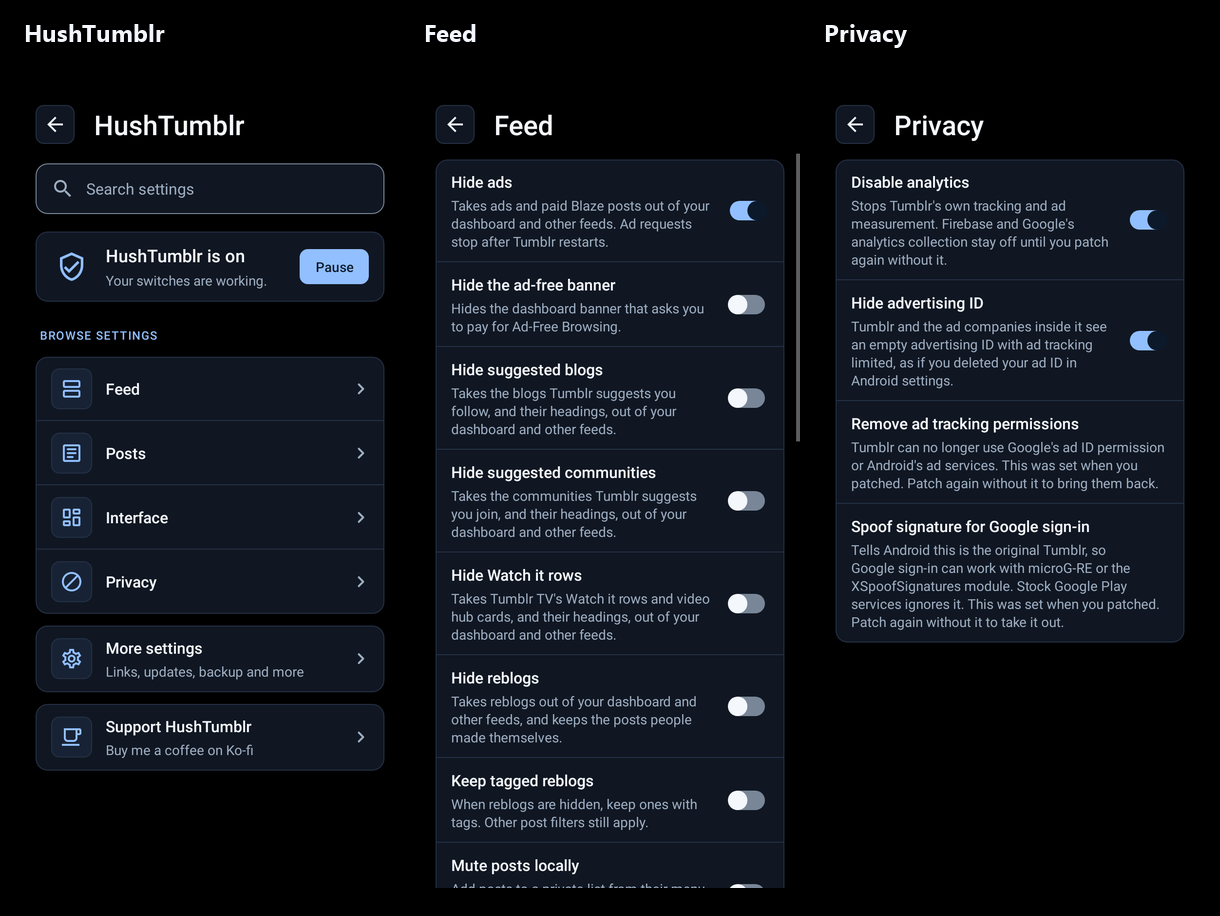
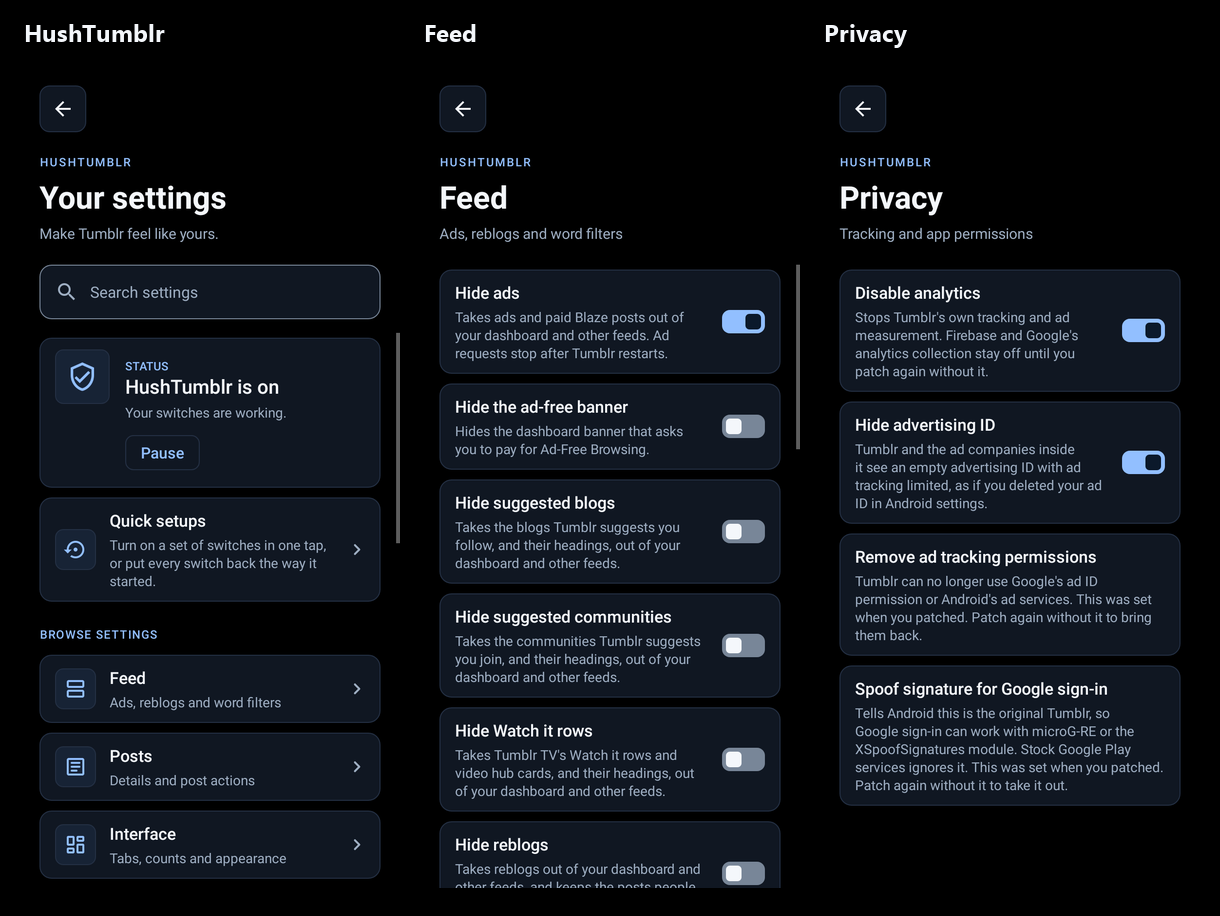
fix(settings): preserve arrow direction and switch geometry
Earlier tests checked configured rotation and intrinsic drawable sizes. Those checks missed framework drawing adjustments. New native rendering regressions verify actual arrow pixels and switch bounds on API 26, 30 and 36 in both layout directions. All 1088 tests and both Android lints pass. Refresh the settings preview and advance development source to 0.0.6.

diff --git a/extensions/tumblr/src/test/java/app/hushtumblr/extension/tumblr/settings/SettingsWidgetRenderingTest.java b/extensions/tumblr/src/test/java/app/hushtumblr/extension/tumblr/settings/SettingsWidgetRenderingTest.java
@@ -1,0 +1,129 @@
+package app.hushtumblr.extension.tumblr.settings;
+
+import static org.junit.Assert.assertEquals;
+import static org.junit.Assert.assertNotNull;
+import static org.junit.Assert.assertTrue;
+
+import android.app.Activity;
+import android.app.AlertDialog;
+import android.graphics.Bitmap;
+import android.graphics.Canvas;
+import android.graphics.Rect;
+import android.graphics.drawable.Drawable;
+import android.graphics.drawable.InsetDrawable;
+import android.preference.Preference;
+import android.preference.SwitchPreference;
+import android.view.View;
+import android.widget.LinearLayout;
+import android.widget.ListView;
+import android.widget.Switch;
+import android.widget.TextView;
+
+import app.hushtumblr.extension.shared.SettingsContextRule;
+
+import org.junit.After;
+import org.junit.Rule;
+import org.junit.Test;
+import org.junit.runner.RunWith;
+import org.robolectric.Robolectric;
+import org.robolectric.RobolectricTestRunner;
+import org.robolectric.RuntimeEnvironment;
+import org.robolectric.android.controller.ActivityController;
+import org.robolectric.annotation.Config;
+import org.robolectric.annotation.GraphicsMode;
+import org.robolectric.shadows.ShadowDialog;
+
+import java.util.EnumSet;
+
+@RunWith(RobolectricTestRunner.class)
+@Config(sdk = {26, 30, 36}, qualifiers = "en-rUS-w390dp-h844dp-xhdpi")
+@GraphicsMode(GraphicsMode.Mode.NATIVE)
+@SuppressWarnings("deprecation")
+public class SettingsWidgetRenderingTest {
+    @Rule public final SettingsContextRule context = new SettingsContextRule();
+
+    @After public void restore() {
+        PatchFamily.inBuildForTests = null;
+    }
+
+    @Test public void drawnSwitchKeepsItsTrackThumbAndInsetsInBothDirections() {
+        android.content.Context activity = RuntimeEnvironment.getApplication();
+        float density = activity.getResources().getDisplayMetrics().density;
+        int target = Math.round(48 * density);
+        int inset = Math.round(4 * density);
+        Switch toggle = new Switch(activity);
+        toggle.setId(android.R.id.switch_widget);
+        toggle.setShowText(false);
+        LinearLayout row = new LinearLayout(activity);
+        row.addView(toggle);
+        ScreenColors.DEFAULT.paintRow(row, new SwitchPreference(activity));
+
+        for (int direction : new int[]{View.LAYOUT_DIRECTION_LTR, View.LAYOUT_DIRECTION_RTL}) {
+            toggle.setLayoutDirection(direction);
+            for (boolean checked : new boolean[]{false, true}) {
+                toggle.setChecked(checked);
+                toggle.jumpDrawablesToCurrentState();
+                toggle.measure(View.MeasureSpec.makeMeasureSpec(target, View.MeasureSpec.EXACTLY),
+                        View.MeasureSpec.makeMeasureSpec(target, View.MeasureSpec.EXACTLY));
+                toggle.layout(0, 0, target, target);
+                Bitmap image = Bitmap.createBitmap(target, target, Bitmap.Config.ARGB_8888);
+                toggle.draw(new Canvas(image));
+                Rect track = toggle.getTrackDrawable().getBounds();
+                Rect thumb = ((InsetDrawable) toggle.getThumbDrawable()).getDrawable().getBounds();
+                assertEquals("drawn track width", Math.round(44 * density), track.width());
+                assertEquals("drawn track height", Math.round(24 * density), track.height());
+                assertEquals("drawn thumb width", Math.round(16 * density), thumb.width());
+                assertEquals("drawn thumb height", Math.round(16 * density), thumb.height());
+                assertEquals("thumb top inset", inset, thumb.top - track.top);
+                assertEquals("thumb bottom inset", inset, track.bottom - thumb.bottom);
+                if (checked != (direction == View.LAYOUT_DIRECTION_RTL)) {
+                    assertEquals("thumb end inset", inset, track.right - thumb.right);
+                } else {
+                    assertEquals("thumb start inset", inset, thumb.left - track.left);
+                }
+                assertTrue(toggle.getWidth() >= target && toggle.getHeight() >= target);
+                image.recycle();
+            }
+        }
+    }
+
+    @Test public void tabMoveGlyphsDrawUpwardInBothDirections() {
+        PatchFamily.inBuildForTests = EnumSet.allOf(PatchFamily.class);
+        TextSettings.TAB_ORDER.resetToDefault();
+        try (ActivityController<Activity> controller = Robolectric.buildActivity(Activity.class).setup()) {
+            SettingsDialog settings = SettingsL10nTest.show(controller.get());
+            HushTumblrPreferenceFragment page = (HushTumblrPreferenceFragment)
+                    settings.getChildFragmentManager().findFragmentById(SettingsDialog.CONTAINER_ID);
+            page.navigation.navigate("Interface");
+            Preference preference = page.findPreference(HushTumblrPreferenceFragment.TAB_ORDER_ROW);
+            preference.getOnPreferenceClickListener().onPreferenceClick(preference);
+            AlertDialog dialog = (AlertDialog) ShadowDialog.getLatestDialog();
+            ListView list = dialog.getListView();
+            for (int direction : new int[]{View.LAYOUT_DIRECTION_LTR, View.LAYOUT_DIRECTION_RTL}) {
+                for (int position = 0; position < list.getAdapter().getCount(); position++) {
+                    TextView label = (TextView) list.getAdapter().getView(position, null, list);
+                    label.setLayoutDirection(direction);
+                    Drawable arrow = label.getCompoundDrawablesRelative()[2];
+                    assertNotNull(arrow);
+                    int size = arrow.getBounds().width();
+                    Bitmap actual = Bitmap.createBitmap(size, size, Bitmap.Config.ARGB_8888);
+                    arrow.draw(new Canvas(actual));
+                    Drawable back = SettingsIcons.icon(label.getContext(), SettingsIcons.BACK,
+                            position == 0 ? ScreenColors.DEFAULT.summary : ScreenColors.DEFAULT.accent);
+                    back.setAutoMirrored(false);
+                    back.setState(label.getDrawableState());
+                    back.setBounds(0, 0, size, size);
+                    Bitmap expected = Bitmap.createBitmap(size, size, Bitmap.Config.ARGB_8888);
+                    Canvas canvas = new Canvas(expected);
+                    canvas.rotate(90, size / 2f, size / 2f);
+                    back.draw(canvas);
+                    assertTrue("move action must draw upward at position " + position,
+                            actual.sameAs(expected));
+                    actual.recycle();
+                    expected.recycle();
+                }
+            }
+            dialog.dismiss();
+        }
+    }
+}

diff --git a/extensions/tumblr/src/main/java/app/hushtumblr/extension/tumblr/settings/ScreenColors.java b/extensions/tumblr/src/main/java/app/hushtumblr/extension/tumblr/settings/ScreenColors.java
@@ -152,11 +152,31 @@ public final class ScreenColors {
             thumb.setCornerRadius(dp(row, 4));
             thumb.setSize(dp(row, 16), dp(row, 16));
             thumb.setColor(Color.WHITE);
-            GradientDrawable track = new GradientDrawable();
+            int inset = dp(row, 4);
+            int thumbBox = dp(row, 24);
+            GradientDrawable track = new GradientDrawable() {
+                @Override public boolean getPadding(Rect padding) {
+                    padding.set(inset, 0, inset, 0);
+                    return true;
+                }
+            };
             track.setCornerRadius(dp(row, 8));
             track.setSize(dp(row, 44), dp(row, 24));
             track.setColor(Color.WHITE);
-            toggle.setThumbDrawable(new InsetDrawable(thumb, dp(row, 4)));
+            // Switch subtracts an InsetDrawable's optical insets from its track. Keep those
+            // zero and inset the painted thumb ourselves, retaining its 24dp layout box.
+            toggle.setThumbDrawable(new InsetDrawable(thumb, 0) {
+                @Override public int getIntrinsicWidth() { return thumbBox; }
+                @Override public int getIntrinsicHeight() { return thumbBox; }
+                @Override public boolean getPadding(Rect padding) {
+                    padding.set(inset, inset, inset, inset);
+                    return true;
+                }
+                @Override protected void onBoundsChange(Rect bounds) {
+                    getDrawable().setBounds(bounds.left + inset, bounds.top + inset,
+                            bounds.right - inset, bounds.bottom - inset);
+                }
+            });
             toggle.setTrackDrawable(track);
             toggle.setSwitchMinWidth(dp(row, 44));
             toggle.setMinWidth(dp(row, 48));

diff --git a/extensions/tumblr/src/main/java/app/hushtumblr/extension/tumblr/settings/HushTumblrPreferenceFragment.java b/extensions/tumblr/src/main/java/app/hushtumblr/extension/tumblr/settings/HushTumblrPreferenceFragment.java
@@ -1174,6 +1174,7 @@ public final class HushTumblrPreferenceFragment extends AbstractPreferenceFragme
                 up.setDrawable(glyph);
                 up.setFromDegrees(90);
                 up.setToDegrees(90);
+                up.setLevel(10000);
                 int size = Math.round(24 * density);
                 up.setBounds(0, 0, size, size);
                 label.setCompoundDrawablesRelative(null, null, up, null);

diff --git a/README.md b/README.md
@@ -1,7 +1,7 @@
 ![HushTumblr. Tumblr, on your terms.](assets/readme-hero.png)
 
 <p align="center">
-  <img src="https://img.shields.io/badge/version-0.0.5-92BFFF" alt="Version 0.0.5">
+  <img src="https://img.shields.io/badge/version-0.0.6-92BFFF" alt="Version 0.0.6">
   <a href="LICENSE"><img src="https://img.shields.io/badge/license-GPL--3.0-blue" alt="License GPL-3.0"></a>
   <img src="https://img.shields.io/badge/platform-Android%208%2B-3DDC84" alt="Platform Android 8+">
   <img src="https://img.shields.io/badge/Tumblr-46.5.0.109-001935" alt="Tumblr 46.5.0.109">
@@ -39,7 +39,7 @@ Sign in with your email and Tumblr password. Google's sign-in checks the app's s
 
 Long-press the Tumblr logo at the top of your dashboard. You can also tap **HushTumblr** at the bottom of Tumblr's Settings, or long-press the Tumblr icon. Switches apply without patching again, though a few, like Disable analytics, finish after Tumblr restarts, and a Restart row at the top of the page does that for you. **Pause** keeps your saved choices and makes the switches act as off, apart from Debug logging. Changes made while patching stay in the app. The same page backs up your settings.
 
-Development source 0.0.5 includes redesigned settings pages and worker-based saves. Local tests and both Android lints pass. The preview below shows the earlier 0.0.4 interface.
+Development source 0.0.6 includes redesigned settings pages and worker-based saves. Local tests and both Android lints pass. The preview below shows the current settings pages.
 
 ![HushTumblr settings overview, Feed and Privacy pages](assets/settings-preview.png)
 

diff --git a/CHANGELOG.md b/CHANGELOG.md
@@ -11,6 +11,7 @@
 * **Tooling:** The patch scripts refuse a bundle whose file names try to reach outside the folder it's unpacked into. They also check every APK in it against Tumblr's signing certificate, package and version before anything is merged, patched, signed or installed. A bundle that would unpack past 1 GB for one APK, or 2 GB in all, is refused before anything is written, and so is an .xapk whose manifest.json would pass 1 MB. A merged universal APK kept beside its bundle now has to carry that bundle's own files throughout, not only its code and native libraries.
 * **Tumblr:** Settings pages have larger headers and short descriptions. Each control has its own navy card, with clearer spacing and rectangular switch thumbs. Short windows use a compact header to keep the list within reach.
 * **Tumblr:** The status card puts Pause or Resume below its message. Both actions save on a worker and prevent repeated taps. Choice dialogs share the page styling, and tab-order rows show an upward arrow for their move action.
+* **Tumblr:** Tab-order actions now draw upward arrows. Switch tracks keep their full size, with evenly inset thumbs.
 * **Tumblr:** A local mute that can't refresh the feed or undo itself keeps an Unmute post action. Recovery changes only that post and preserves later edits to the account's muted list.
 * **Tumblr:** Clearing diagnostic data and putting it back use a shared worker operation. Rows show progress, prevent repeated actions and keep failed restores available to retry.
 * **Tooling:** Settings title checks compile against the public Android SDK.
